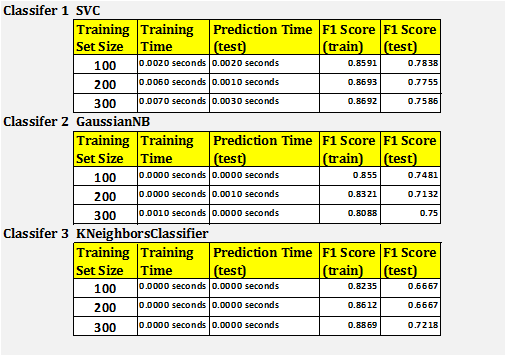
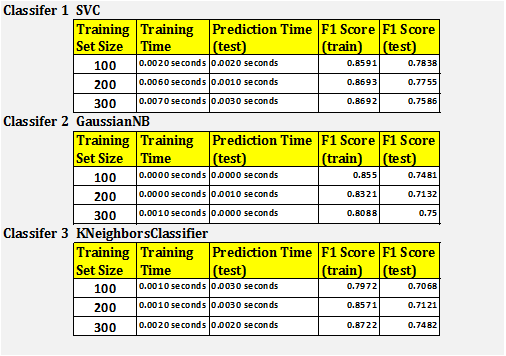
add updates for some questions

diff --git a/student_intervention/student_intervention.html b/student_intervention/student_intervention.html
@@ -11801,7 +11801,7 @@ This seems to be a clear case of classification since the data is supposed to be
 </div>
 <div class="cell border-box-sizing code_cell rendered">
 <div class="input">
-<div class="prompt input_prompt">In&nbsp;[1]:</div>
+<div class="prompt input_prompt">In&nbsp;[47]:</div>
 <div class="inner_cell">
     <div class="input_area">
 <div class=" highlight hl-ipython2"><pre><span></span><span class="c1"># Import libraries</span>
@@ -11811,7 +11811,7 @@ This seems to be a clear case of classification since the data is supposed to be
 <span class="kn">from</span> <span class="nn">sklearn.metrics</span> <span class="kn">import</span> <span class="n">f1_score</span>
 
 <span class="c1"># Read student data</span>
-<span class="n">student_data</span> <span class="o">=</span> <span class="n">pd</span><span class="o">.</span><span class="n">read_csv</span><span class="p">(</span><span class="s2">&quot;student-data.csv&quot;</span><span class="p">)</span>
+<span class="n">student_data</span> <span class="o">=</span> <span class="n">pd</span><span class="o">.</span><span class="n">read_csv</span><span class="p">(</span><span class="s2">&quot;docs/student-data.csv&quot;</span><span class="p">)</span>
 <span class="k">print</span> <span class="s2">&quot;Student data read successfully!&quot;</span>
 </pre></div>
 
@@ -11853,7 +11853,7 @@ This seems to be a clear case of classification since the data is supposed to be
 </div>
 <div class="cell border-box-sizing code_cell rendered">
 <div class="input">
-<div class="prompt input_prompt">In&nbsp;[2]:</div>
+<div class="prompt input_prompt">In&nbsp;[48]:</div>
 <div class="inner_cell">
     <div class="input_area">
 <div class=" highlight hl-ipython2"><pre><span></span><span class="c1">## get the number of columns of the dataset</span>
@@ -11882,7 +11882,7 @@ This seems to be a clear case of classification since the data is supposed to be
 <div class="output">
 
 
-<div class="output_area"><div class="prompt output_prompt">Out[2]:</div>
+<div class="output_area"><div class="prompt output_prompt">Out[48]:</div>
 
 
 <div class="output_text output_subarea output_execute_result">
@@ -11897,7 +11897,7 @@ This seems to be a clear case of classification since the data is supposed to be
 </div>
 <div class="cell border-box-sizing code_cell rendered">
 <div class="input">
-<div class="prompt input_prompt">In&nbsp;[3]:</div>
+<div class="prompt input_prompt">In&nbsp;[49]:</div>
 <div class="inner_cell">
     <div class="input_area">
 <div class=" highlight hl-ipython2"><pre><span></span><span class="c1"># TODO: Calculate number of students</span>
@@ -11914,7 +11914,7 @@ This seems to be a clear case of classification since the data is supposed to be
 
 
 <span class="c1"># TODO: Calculate graduation rate</span>
-<span class="n">grad_rate</span> <span class="o">=</span> <span class="p">(</span><span class="n">n_passed</span> <span class="o">*</span> <span class="mi">100</span><span class="o">/</span> <span class="n">n_students</span><span class="p">)</span>
+<span class="n">grad_rate</span> <span class="o">=</span> <span class="p">(</span><span class="nb">float</span><span class="p">(</span><span class="n">n_passed</span><span class="p">)</span> <span class="o">*</span> <span class="mi">100</span><span class="o">/</span> <span class="nb">float</span><span class="p">(</span><span class="n">n_students</span><span class="p">))</span>
 
 <span class="c1"># Print the results</span>
 <span class="k">print</span> <span class="s2">&quot;Total number of students: {}&quot;</span><span class="o">.</span><span class="n">format</span><span class="p">(</span><span class="n">n_students</span><span class="p">)</span>
@@ -11938,7 +11938,7 @@ This seems to be a clear case of classification since the data is supposed to be
 Number of features: 30
 Number of students who passed: 265
 Number of students who failed: 130
-Graduation rate of the class: 67.00%
+Graduation rate of the class: 67.09%
 </pre>
 </div>
 </div>
@@ -11961,7 +11961,7 @@ Graduation rate of the class: 67.00%
 </div>
 <div class="cell border-box-sizing code_cell rendered">
 <div class="input">
-<div class="prompt input_prompt">In&nbsp;[4]:</div>
+<div class="prompt input_prompt">In&nbsp;[50]:</div>
 <div class="inner_cell">
     <div class="input_area">
 <div class=" highlight hl-ipython2"><pre><span></span><span class="c1"># Extract feature columns</span>
@@ -12043,7 +12043,7 @@ Feature values:
 </div>
 <div class="cell border-box-sizing code_cell rendered">
 <div class="input">
-<div class="prompt input_prompt">In&nbsp;[5]:</div>
+<div class="prompt input_prompt">In&nbsp;[51]:</div>
 <div class="inner_cell">
     <div class="input_area">
 <div class=" highlight hl-ipython2"><pre><span></span><span class="k">def</span> <span class="nf">preprocess_features</span><span class="p">(</span><span class="n">X</span><span class="p">):</span>
@@ -12096,7 +12096,7 @@ Feature values:
 </div>
 <div class="cell border-box-sizing code_cell rendered">
 <div class="input">
-<div class="prompt input_prompt">In&nbsp;[6]:</div>
+<div class="prompt input_prompt">In&nbsp;[52]:</div>
 <div class="inner_cell">
     <div class="input_area">
 <div class=" highlight hl-ipython2"><pre><span></span><span class="n">X_all</span><span class="o">.</span><span class="n">shape</span><span class="p">[</span><span class="mi">0</span><span class="p">]</span> <span class="o">-</span> <span class="mi">300</span>
@@ -12110,7 +12110,7 @@ Feature values:
 <div class="output">
 
 
-<div class="output_area"><div class="prompt output_prompt">Out[6]:</div>
+<div class="output_area"><div class="prompt output_prompt">Out[52]:</div>
 
 
 <div class="output_text output_subarea output_execute_result">
@@ -12143,7 +12143,7 @@ Feature values:
 </div>
 <div class="cell border-box-sizing code_cell rendered">
 <div class="input">
-<div class="prompt input_prompt">In&nbsp;[7]:</div>
+<div class="prompt input_prompt">In&nbsp;[53]:</div>
 <div class="inner_cell">
     <div class="input_area">
 <div class=" highlight hl-ipython2"><pre><span></span><span class="kn">import</span> <span class="nn">sklearn</span>
@@ -12171,7 +12171,7 @@ Feature values:
 </div>
 <div class="cell border-box-sizing code_cell rendered">
 <div class="input">
-<div class="prompt input_prompt">In&nbsp;[8]:</div>
+<div class="prompt input_prompt">In&nbsp;[54]:</div>
 <div class="inner_cell">
     <div class="input_area">
 <div class=" highlight hl-ipython2"><pre><span></span><span class="c1"># TODO: Import any additional functionality you may need here</span>
@@ -12209,7 +12209,7 @@ Test set: 95 samples
 </div>
 <div class="cell border-box-sizing code_cell rendered">
 <div class="input">
-<div class="prompt input_prompt">In&nbsp;[9]:</div>
+<div class="prompt input_prompt">In&nbsp;[55]:</div>
 <div class="inner_cell">
     <div class="input_area">
 <div class=" highlight hl-ipython2"><pre><span></span><span class="nb">len</span><span class="p">(</span><span class="n">X_train</span><span class="p">)</span>
@@ -12224,7 +12224,7 @@ Test set: 95 samples
 <div class="output">
 
 
-<div class="output_area"><div class="prompt output_prompt">Out[9]:</div>
+<div class="output_area"><div class="prompt output_prompt">Out[55]:</div>
 
 
 <div class="output_text output_subarea output_execute_result">
@@ -12279,9 +12279,22 @@ Test set: 95 samples
 <div class="inner_cell">
 <div class="text_cell_render border-box-sizing rendered_html">
 <p><strong>Answer: </strong></p>
-<p><img src='SVM_2.png'>
- <img src='Naive_Bayes.png'>
-  <img src='knn.png'></p>
+<p><img src='SVM_2.png'></p>
+<ul>
+<li><p>What makes this model a good candidate for the problem, given what you know about the data?</p>
+<p>This model works very accuratly on a smaller set of data and therefore it fits to given application very well.
+<img src='Naive_Bayes.png'></p>
+<ul>
+<li><p>What makes this model a good candidate for the problem, given what you know about the data?</p>
+<p>This model again is very accurate and simple to implement especially if the data set is small. Hence, i have selected it for evaluation.
+<img src='knn.png'></p>
+</li>
+</ul>
+</li>
+<li><p>What makes this model a good candidate for the problem, given what you know about the data?</p>
+<p>KNN  is one of the simplest classification algorithm and it can give highly competitive results. Hence, i selected this algorithm.</p>
+</li>
+</ul>
 
 </div>
 </div>
@@ -12306,7 +12319,7 @@ Test set: 95 samples
 </div>
 <div class="cell border-box-sizing code_cell rendered">
 <div class="input">
-<div class="prompt input_prompt">In&nbsp;[10]:</div>
+<div class="prompt input_prompt">In&nbsp;[56]:</div>
 <div class="inner_cell">
     <div class="input_area">
 <div class=" highlight hl-ipython2"><pre><span></span><span class="k">def</span> <span class="nf">train_classifier</span><span class="p">(</span><span class="n">clf</span><span class="p">,</span> <span class="n">X_train</span><span class="p">,</span> <span class="n">y_train</span><span class="p">):</span>
@@ -12379,7 +12392,7 @@ Test set: 95 samples
 </div>
 <div class="cell border-box-sizing code_cell rendered">
 <div class="input">
-<div class="prompt input_prompt">In&nbsp;[&nbsp;]:</div>
+<div class="prompt input_prompt">In&nbsp;[57]:</div>
 <div class="inner_cell">
     <div class="input_area">
 <div class=" highlight hl-ipython2"><pre><span></span><span class="c1"># TODO: Import the three supervised learning models from sklearn</span>
@@ -12411,7 +12424,7 @@ Test set: 95 samples
 <span class="c1">#clf_B = DecisionTreeClassifier(random_state=0)</span>
 <span class="c1">#clf_C1 = RandomForestClassifier(n_estimators=10)</span>
 <span class="c1">#clf_C2 = GradientBoostingClassifier()</span>
-<span class="n">clf_D</span> <span class="o">=</span> <span class="n">KNeighborsClassifier</span><span class="p">(</span><span class="n">n_neighbors</span><span class="o">=</span><span class="mi">3</span><span class="p">)</span>
+<span class="n">clf_D</span> <span class="o">=</span> <span class="n">KNeighborsClassifier</span><span class="p">()</span>
 <span class="c1">#clf_E = linear_model.SGDClassifier()</span>
 <span class="n">clf_F</span> <span class="o">=</span> <span class="n">SVC</span><span class="p">()</span>
 <span class="c1">#clf_G = LogisticRegression()</span>
@@ -12455,20 +12468,20 @@ Test set: 95 samples
 <pre>Running model 1
 (100, 48) (100,)
 Training a GaussianNB using a training set size of 100. . .
-Trained model in 0.0020 seconds
-Made predictions in 0.0000 seconds.
+Trained model in 0.0010 seconds
+Made predictions in 0.0010 seconds.
 F1 score for training set: 0.8550.
-Made predictions in 0.0000 seconds.
+Made predictions in 0.0050 seconds.
 F1 score for test set: 0.7481.
 
 
 Running model 1
 (200, 48) (200,)
 Training a GaussianNB using a training set size of 200. . .
-Trained model in 0.0030 seconds
+Trained model in 0.0010 seconds
 Made predictions in 0.0000 seconds.
 F1 score for training set: 0.8321.
-Made predictions in 0.0000 seconds.
+Made predictions in 0.0010 seconds.
 F1 score for test set: 0.7132.
 
 
@@ -12476,7 +12489,7 @@ Running model 1
 (300, 48) (300,)
 Training a GaussianNB using a training set size of 300. . .
 Trained model in 0.0000 seconds
-Made predictions in 0.0000 seconds.
+Made predictions in 0.0010 seconds.
 F1 score for training set: 0.8088.
 Made predictions in 0.0000 seconds.
 F1 score for test set: 0.7500.
@@ -12485,40 +12498,40 @@ F1 score for test set: 0.7500.
 Running model 2
 (100, 48) (100,)
 Training a KNeighborsClassifier using a training set size of 100. . .
-Trained model in 0.0000 seconds
+Trained model in 0.0010 seconds
 Made predictions in 0.0020 seconds.
-F1 score for training set: 0.8235.
-Made predictions in 0.0000 seconds.
-F1 score for test set: 0.6667.
+F1 score for training set: 0.7972.
+Made predictions in 0.0030 seconds.
+F1 score for test set: 0.7068.
 
 
 Running model 2
 (200, 48) (200,)
 Training a KNeighborsClassifier using a training set size of 200. . .
-Trained model in 0.0030 seconds
+Trained model in 0.0010 seconds
+Made predictions in 0.0050 seconds.
+F1 score for training set: 0.8571.
 Made predictions in 0.0020 seconds.
-F1 score for training set: 0.8612.
-Made predictions in 0.0030 seconds.
-F1 score for test set: 0.6667.
+F1 score for test set: 0.7121.
 
 
 Running model 2
 (300, 48) (300,)
 Training a KNeighborsClassifier using a training set size of 300. . .
-Trained model in 0.0020 seconds
-Made predictions in 0.0050 seconds.
-F1 score for training set: 0.8869.
-Made predictions in 0.0020 seconds.
-F1 score for test set: 0.7218.
+Trained model in 0.0010 seconds
+Made predictions in 0.0090 seconds.
+F1 score for training set: 0.8722.
+Made predictions in 0.0040 seconds.
+F1 score for test set: 0.7482.
 
 
 Running model 3
 (100, 48) (100,)
 Training a SVC using a training set size of 100. . .
-Trained model in 0.0000 seconds
-Made predictions in 0.0030 seconds.
+Trained model in 0.0010 seconds
+Made predictions in 0.0010 seconds.
 F1 score for training set: 0.8591.
-Made predictions in 0.0000 seconds.
+Made predictions in 0.0010 seconds.
 F1 score for test set: 0.7838.
 
 
@@ -12528,15 +12541,15 @@ Training a SVC using a training set size of 200. . .
 Trained model in 0.0050 seconds
 Made predictions in 0.0020 seconds.
 F1 score for training set: 0.8693.
-Made predictions in 0.0030 seconds.
+Made predictions in 0.0010 seconds.
 F1 score for test set: 0.7755.
 
 
 Running model 3
 (300, 48) (300,)
 Training a SVC using a training set size of 300. . .
-Trained model in 0.0070 seconds
-Made predictions in 0.0050 seconds.
+Trained model in 0.0090 seconds
+Made predictions in 0.0070 seconds.
 F1 score for training set: 0.8692.
 Made predictions in 0.0030 seconds.
 F1 score for test set: 0.7586.
@@ -12653,7 +12666,7 @@ F1 score for test set: 0.7586.
 </div>
 <div class="cell border-box-sizing code_cell rendered">
 <div class="input">
-<div class="prompt input_prompt">In&nbsp;[&nbsp;]:</div>
+<div class="prompt input_prompt">In&nbsp;[58]:</div>
 <div class="inner_cell">
     <div class="input_area">
 <div class=" highlight hl-ipython2"><pre><span></span><span class="c1"># TODO: Import &#39;GridSearchCV&#39; and &#39;make_scorer&#39;</span>
@@ -12692,10 +12705,27 @@ F1 score for test set: 0.7586.
 </div>
 </div>
 
+<div class="output_wrapper">
+<div class="output">
+
+
+<div class="output_area"><div class="prompt"></div>
+<div class="output_subarea output_stream output_stdout output_text">
+<pre>Made predictions in 0.0050 seconds.
+Tuned model has a training F1 score of 0.8372.
+Made predictions in 0.0020 seconds.
+Tuned model has a testing F1 score of 0.7943.
+</pre>
+</div>
+</div>
+
+</div>
+</div>
+
 </div>
 <div class="cell border-box-sizing code_cell rendered">
 <div class="input">
-<div class="prompt input_prompt">In&nbsp;[&nbsp;]:</div>
+<div class="prompt input_prompt">In&nbsp;[59]:</div>
 <div class="inner_cell">
     <div class="input_area">
 <div class=" highlight hl-ipython2"><pre><span></span><span class="c1">#print grid_obj.best_estimator_</span>
